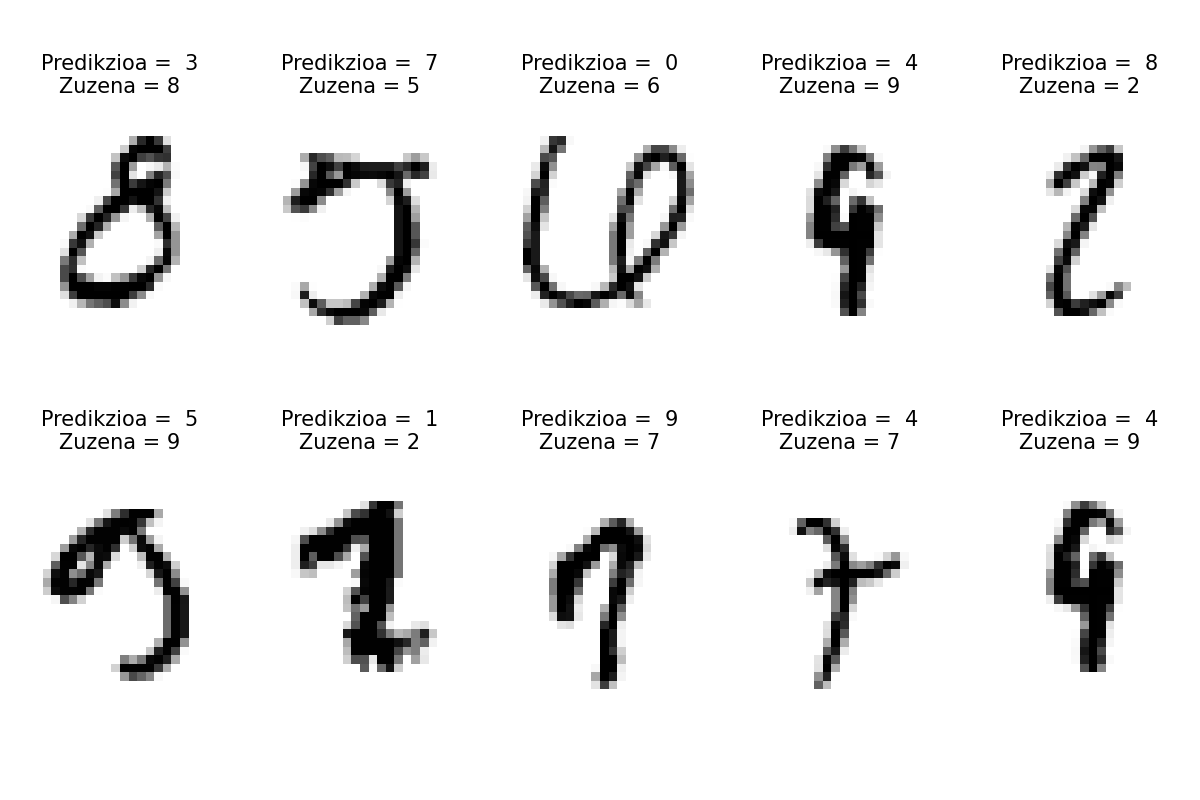
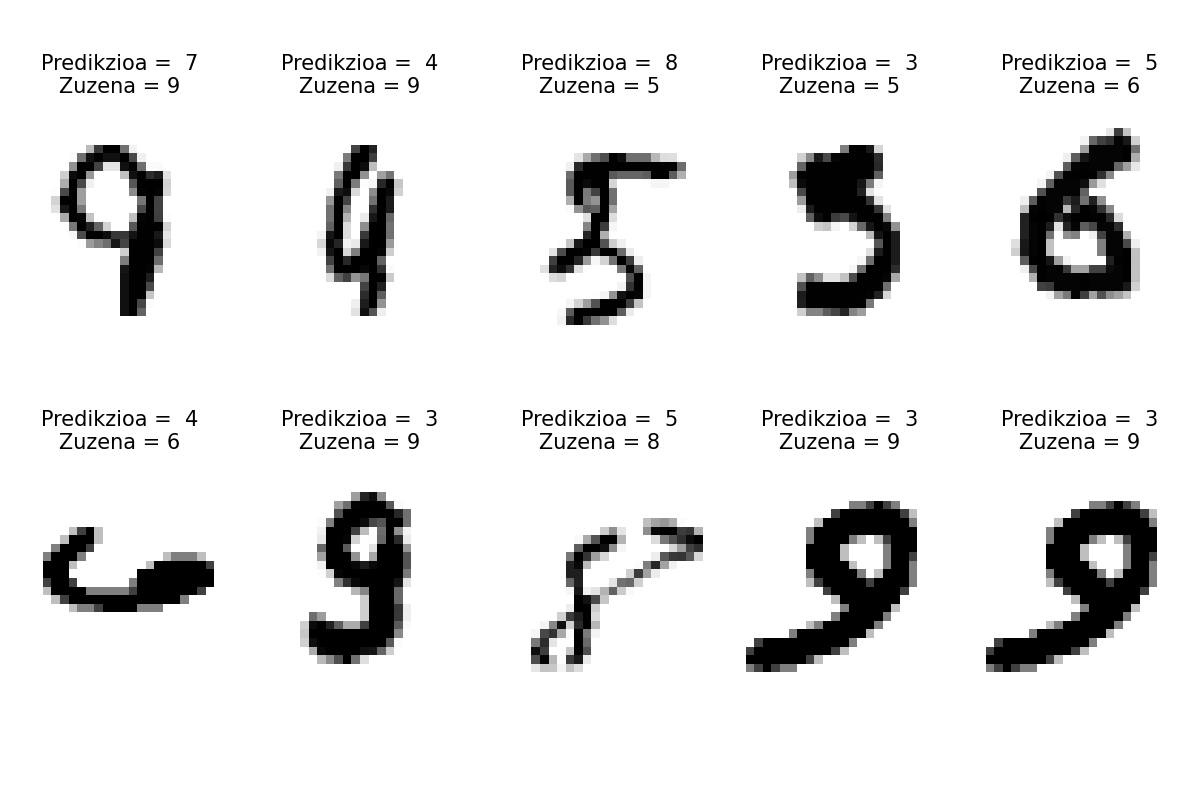
scikit aldatu entrenamenduak errorea ez agertzeko

diff --git a/Modelo_hoberena_sortzen/Modeloen_informazioa_adierazi.py b/Modelo_hoberena_sortzen/Modeloen_informazioa_adierazi.py
@@ -34,89 +34,89 @@ X_test = X_test / 255
 
 
 
-# # ----------------------------------------------------------------------------
-# # --------------------NIRE MODELOA KERNEL GAUSSIARRA--------------------------
-# # ----------------------------------------------------------------------------
+# # # ----------------------------------------------------------------------------
+# # # --------------------NIRE MODELOA KERNEL GAUSSIARRA--------------------------
+# # # ----------------------------------------------------------------------------
 
-# # Modeloa inportatu
-Nire_gauss = pickle.load(open(os.path.join(bide_orokorra,"Entrenatutako_modeloak","Nire_modelo_hoberena_gauss.pkl"),"rb"))
-Nire_gauss_info = pickle.load(open(os.path.join(bide_orokorra,"Entrenatutako_modeloak","Nire_modelo_hoberena_gauss_info.pkl"),"rb"))
+# # # Modeloa inportatu
+# Nire_gauss = pickle.load(open(os.path.join(bide_orokorra,"Entrenatutako_modeloak","Nire_modelo_hoberena_gauss.pkl"),"rb"))
+# Nire_gauss_info = pickle.load(open(os.path.join(bide_orokorra,"Entrenatutako_modeloak","Nire_modelo_hoberena_gauss_info.pkl"),"rb"))
 
-# # Informazioa erakutsi:
-print("Nire modeloa, kernel gausiarra:")
-print(f"Behar izan duen denbora: {Nire_gauss_info[0]}")
-print(f"Lortu duen asmatze-proportzioa: {Nire_gauss_info[1]}")
-print()
+# # # Informazioa erakutsi:
+# print("Nire modeloa, kernel gausiarra:")
+# print(f"Behar izan duen denbora: {Nire_gauss_info[0]}")
+# print(f"Lortu duen asmatze-proportzioa: {Nire_gauss_info[1]}")
+# print()
 
-# # Conffusion Matrix egin:
+# # # Conffusion Matrix egin:
 
-# Nire_gauss_test_predikzioak = Nire_gauss.predict_anitzkoitza(X_test.values())
+# # Nire_gauss_test_predikzioak = Nire_gauss.predict_anitzkoitza(X_test.values())
 
-# # Gaizki egindako predikzioak bisualizatu:
-random.seed(123)
-fig, axs = plt.subplots(2,5, figsize = (12,8))
-k = random.randint(0, len(Y_test)-1)
-for i in range(2):
-    for j in range(5):
-        predikzioa =  Nire_gauss.predict(X_test.iloc[k,:])
-        zuzena = Y_test.iloc[k]
-        while predikzioa == zuzena:
-            k = random.randint(0, len(Y_test)-1)
-            predikzioa =  Nire_gauss.predict(X_test.iloc[k,:])
-            zuzena = Y_test.iloc[k]
-        adib = np.array(X_test.iloc[k, :])
-        adib = np.reshape(adib, (28,28))
-        axs[i,j].imshow(adib, cmap = "gray_r")
-        axs[i,j].axis("off")
-        axs[i,j].text(0.5,1.2,f"Predikzioa =  {str(predikzioa)}\nZuzena = {str(zuzena)}", fontsize = 15, horizontalalignment = "center", verticalalignment = "top", transform = axs[i,j].transAxes)
-        k += 1
+# # # Gaizki egindako predikzioak bisualizatu:
+# random.seed(123)
+# fig, axs = plt.subplots(2,5, figsize = (12,8))
+# k = random.randint(0, len(Y_test)-1)
+# for i in range(2):
+#     for j in range(5):
+#         predikzioa =  Nire_gauss.predict(X_test.iloc[k,:])
+#         zuzena = Y_test.iloc[k]
+#         while predikzioa == zuzena:
+#             k = random.randint(0, len(Y_test)-1)
+#             predikzioa =  Nire_gauss.predict(X_test.iloc[k,:])
+#             zuzena = Y_test.iloc[k]
+#         adib = np.array(X_test.iloc[k, :])
+#         adib = np.reshape(adib, (28,28))
+#         axs[i,j].imshow(adib, cmap = "gray_r")
+#         axs[i,j].axis("off")
+#         axs[i,j].text(0.5,1.2,f"Predikzioa =  {str(predikzioa)}\nZuzena = {str(zuzena)}", fontsize = 15, horizontalalignment = "center", verticalalignment = "top", transform = axs[i,j].transAxes)
+#         k += 1
 
-plt.tight_layout(pad = 0)
-# plt.show()
-plt.savefig(os.path.join(oraingo_bidea, "Irudiak", "Nire_gauss_gaizki_klasifikatuak.png"))
-
-
-
-
-# # ----------------------------------------------------------------------------
-# # --------------------NIRE MODELOA KERNEL POLINOMIALA-------------------------
-# # ----------------------------------------------------------------------------
-
-# # Modeloa inportatu
-Nire_poly = pickle.load(open(os.path.join(bide_orokorra,"Entrenatutako_modeloak","Nire_modelo_hoberena_poly.pkl"),"rb"))
-Nire_poly_info = pickle.load(open(os.path.join(bide_orokorra,"Entrenatutako_modeloak","Nire_modelo_hoberena_poly_info.pkl"),"rb"))
-
-# # Informazioa erakutsi:
-
-print("Nire modeloa, kernel polinomiala:")
-print(f"Behar izan duen denbora: {Nire_poly_info[0]}")
-print(f"Lortu duen asmatze-proportzioa: {Nire_poly_info[1]}")
-print()
+# plt.tight_layout(pad = 0)
+# # plt.show()
+# plt.savefig(os.path.join(oraingo_bidea, "Irudiak", "Nire_gauss_gaizki_klasifikatuak.png"))
 
 
 
 
-# # Gaizki egindako predikzioak bisualizatu:
-fig, axs = plt.subplots(2,5, figsize = (12,8))
-k = random.randint(0, len(Y_test)-1)
-for i in range(2):
-    for j in range(5):
-        predikzioa =  Nire_poly.predict(X_test.iloc[k,:])
-        zuzena = Y_test.iloc[k]
-        while predikzioa == zuzena:
-            k = random.randint(0, len(Y_test)-1)
-            predikzioa =  Nire_poly.predict(X_test.iloc[k,:])
-            zuzena = Y_test.iloc[k]
-        adib = np.array(X_test.iloc[k, :])
-        adib = np.reshape(adib, (28,28))
-        axs[i,j].imshow(adib, cmap = "gray_r")
-        axs[i,j].axis("off")
-        axs[i,j].text(0.5,1.2,f"Predikzioa =  {str(predikzioa)}\nZuzena = {str(zuzena)}", fontsize = 15, horizontalalignment = "center", verticalalignment = "top", transform = axs[i,j].transAxes)
-        k += 1
+# # # ----------------------------------------------------------------------------
+# # # --------------------NIRE MODELOA KERNEL POLINOMIALA-------------------------
+# # # ----------------------------------------------------------------------------
 
-plt.tight_layout(pad = 0)
-# plt.show()
-plt.savefig(os.path.join(oraingo_bidea, "Irudiak", "Nire_poly_gaizki_klasifikatuak.png"))
+# # # Modeloa inportatu
+# Nire_poly = pickle.load(open(os.path.join(bide_orokorra,"Entrenatutako_modeloak","Nire_modelo_hoberena_poly.pkl"),"rb"))
+# Nire_poly_info = pickle.load(open(os.path.join(bide_orokorra,"Entrenatutako_modeloak","Nire_modelo_hoberena_poly_info.pkl"),"rb"))
+
+# # # Informazioa erakutsi:
+
+# print("Nire modeloa, kernel polinomiala:")
+# print(f"Behar izan duen denbora: {Nire_poly_info[0]}")
+# print(f"Lortu duen asmatze-proportzioa: {Nire_poly_info[1]}")
+# print()
+
+
+
+
+# # # Gaizki egindako predikzioak bisualizatu:
+# fig, axs = plt.subplots(2,5, figsize = (12,8))
+# k = random.randint(0, len(Y_test)-1)
+# for i in range(2):
+#     for j in range(5):
+#         predikzioa =  Nire_poly.predict(X_test.iloc[k,:])
+#         zuzena = Y_test.iloc[k]
+#         while predikzioa == zuzena:
+#             k = random.randint(0, len(Y_test)-1)
+#             predikzioa =  Nire_poly.predict(X_test.iloc[k,:])
+#             zuzena = Y_test.iloc[k]
+#         adib = np.array(X_test.iloc[k, :])
+#         adib = np.reshape(adib, (28,28))
+#         axs[i,j].imshow(adib, cmap = "gray_r")
+#         axs[i,j].axis("off")
+#         axs[i,j].text(0.5,1.2,f"Predikzioa =  {str(predikzioa)}\nZuzena = {str(zuzena)}", fontsize = 15, horizontalalignment = "center", verticalalignment = "top", transform = axs[i,j].transAxes)
+#         k += 1
+
+# plt.tight_layout(pad = 0)
+# # plt.show()
+# plt.savefig(os.path.join(oraingo_bidea, "Irudiak", "Nire_poly_gaizki_klasifikatuak.png"))
 
 
 
@@ -185,11 +185,11 @@ fig, axs = plt.subplots(2,5, figsize = (12,8))
 k = random.randint(0, len(Y_test)-1)
 for i in range(2):
     for j in range(5):
-        predikzioa =  Scikit_poly.predict(np.array(X_test.iloc[k,:].tolist()).reshape(1,-1))[0]
+        predikzioa =  Scikit_poly.predict(np.array(X_test.values[k]).reshape(1,-1))[0]
         zuzena = Y_test.iloc[k]
         while predikzioa == zuzena:
             k = random.randint(0, len(Y_test)-1)
-            predikzioa =  Scikit_poly.predict(np.array(X_test.iloc[k,:].tolist()).reshape(1,-1))[0]
+            predikzioa =  Scikit_poly.predict(np.array(X_test.values[k]).reshape(1,-1))[0]
             zuzena = Y_test.iloc[k]
         adib = np.array(X_test.iloc[k, :])
         adib = np.reshape(adib, (28,28))

diff --git a/Modelo_hoberena_sortzen/Scikit_modeloa.py b/Modelo_hoberena_sortzen/Scikit_modeloa.py
@@ -37,9 +37,9 @@ X_test = X_test / 255
 # # Modeloa sortu:
 modelo_gauss = SVC(C = 10, kernel = "rbf", gamma = 10**(-2))
 t0 = time.time()
-modelo_gauss.fit(X_entrenamendu, Y_entrenamendu)
+modelo_gauss.fit(X_entrenamendu.values, Y_entrenamendu.values)
 t1 = time.time()
-nota = modelo_gauss.score(X_test, Y_test)
+nota = modelo_gauss.score(X_test.values, Y_test.values)
 
 # # Informazioa gorde:
 modelo_gauss_info = []
@@ -66,9 +66,9 @@ pickle.dump(modelo_gauss_info, open(os.path.join(bide_orokorra, "Entrenatutako_m
 # # Modeloa sortu:
 modelo_poly = SVC(C=10, kernel = "poly", degree = 6, coef0 =1)
 t0 = time.time()
-modelo_poly.fit(X_entrenamendu, Y_entrenamendu)
+modelo_poly.fit(X_entrenamendu.values, Y_entrenamendu.values)
 t1 = time.time()
-nota = modelo_poly.score(X_test, Y_test)
+nota = modelo_poly.score(X_test.values, Y_test.values)
 
 # # Informazioa gorde:
 modelo_poly_info = []
